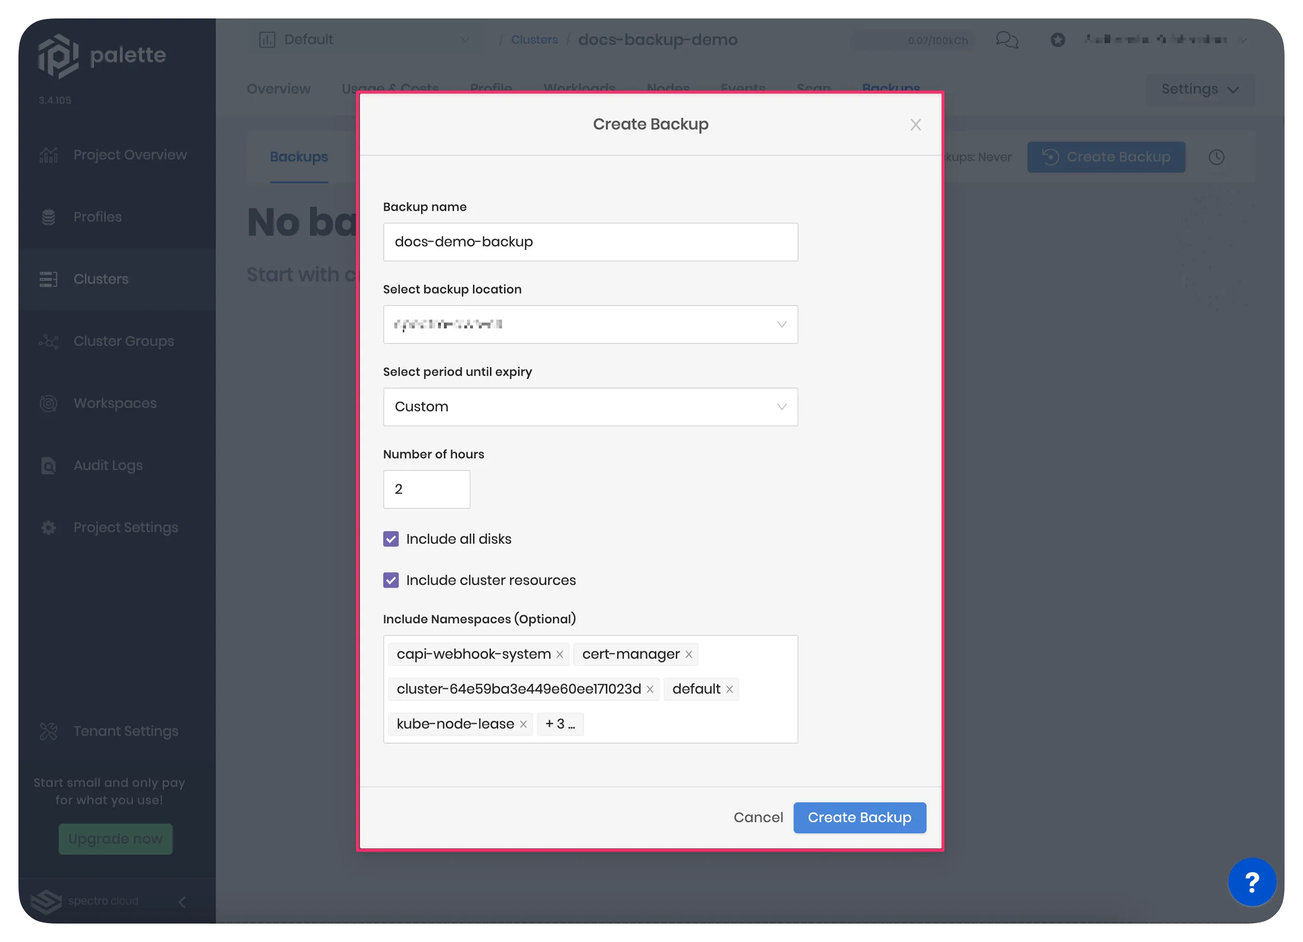
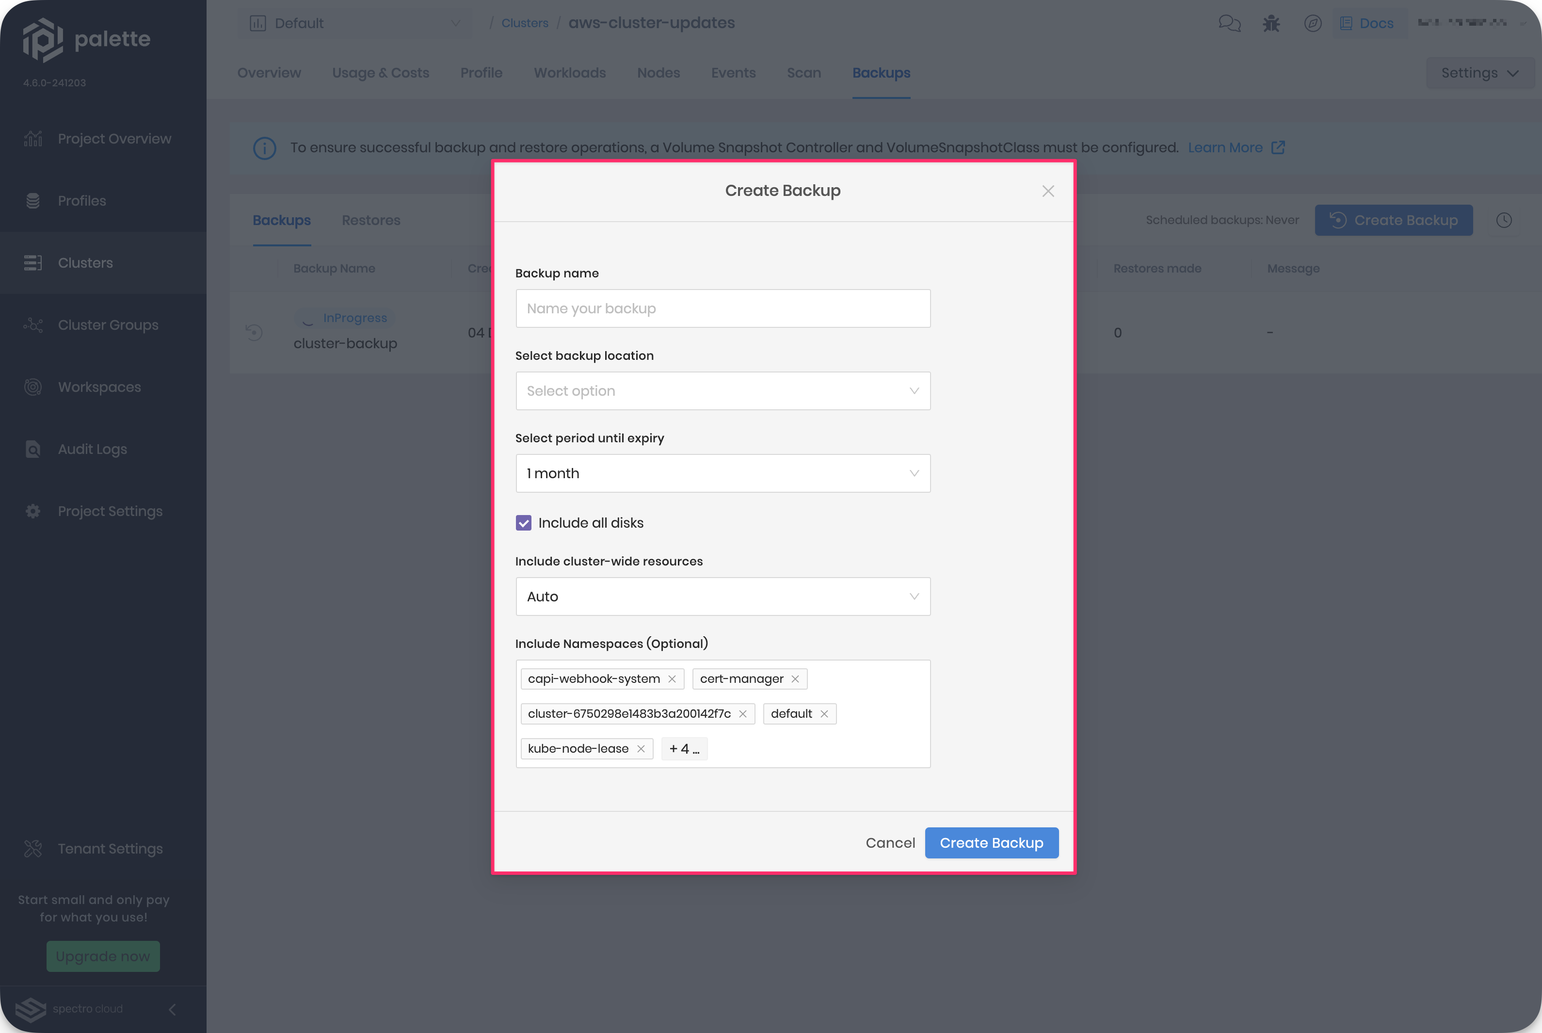
docs: add cluster-wide resources backup options PEM-5124

Changed region(s): [[0.0, 0.0, 1.0, 1.0], [0.5253, 0.7106, 0.5562, 0.7415], [0.0618, 0.3708, 0.0927, 0.4016]]

diff --git a/docs/docs-content/clusters/cluster-management/backup-restore/create-cluster-backup.md b/docs/docs-content/clusters/cluster-management/backup-restore/create-cluster-backup.md
@@ -15,34 +15,21 @@ the source cluster.
 
 :::info
 
-Palette uses open source Velero to provide backup and restore capabilities. You can learn more about Velero by checking
-out their [Restore Reference](https://velero.io/docs/main/restore-reference) and
-[Backup Reference](https://velero.io/docs/main/backup-reference).
+Palette uses Velero to provide backup and restore capabilities. Check out their
+[Restore Reference](https://velero.io/docs/main/restore-reference) and
+[Backup Reference](https://velero.io/docs/main/backup-reference) to learn more about the project.
 
 :::
 
-You can schedule a cluster backup or initiate a backup on demand. You can define a backup schedule in the cluster
-configuration for an existing cluster or while deploying a cluster.
+You can schedule a cluster backup or initiate a backup on demand. You can define a backup schedule during cluster
+creation or in the cluster settings of an existing cluster.
 
 Palette supports scheduling recurring backups, with the ability to customize the frequency and the time. You can also
-specify the backup expiry period, meaning the duration, after which Palette will delete the backup automatically. For
+specify the backup expiry period, meaning the duration after which Palette will delete the backup automatically. For
 example, you can schedule a backup for every week on Sunday at midnight and automatically expire the backup after three
 months. Additionally, you can initiate a backup on demand for an existing cluster.
 
-The following sections will describe the prerequisites and the detailed instructions to create a cluster backup. You can
-schedule a backup or initiate a backup on demand.
-
-- [Schedule a Backup](#schedule-a-backup)
-
-- [On-demand Backup](#on-demand-backup)
-
-<br />
-
-## Schedule a Backup
-
-Use the following instructions to schedule a backup for an existing cluster.
-
-### Prerequisites
+## Prerequisites
 
 - An available backup location in Palette. Refer to the
   [Add a Backup Location using Static Credentials](add-backup-location-static.md) or
@@ -54,155 +41,135 @@ Use the following instructions to schedule a backup for an existing cluster.
 - If you want to include volume snapshots in the backup, ensure that your CSI driver supports volume snapshots. For more
   information about volume support, review the CSI pack README for your CSI driver in use. Refer to the [Volume Snapshots](backup-restore.md#volume-snapshots) section for more information.
 
-### Instructions
+## Enablement
+
+<Tabs>
+
+<TabItem label="Schedule a Backup" value="schedule-backup">
 
 1. Log in to [Palette](https://console.spectrocloud.com/).
 
-2. Navigate to the left **Main Menu** and select **Clusters**.
+2. Navigate to the left **Main Menu**, and then select **Clusters**. The list of clusters appears.
 
-3. Select a cluster you want to back up. Ensure the cluster status is _Healthy_.
+3. Select a cluster you want to back up. The cluster **Overview** appears. Ensure the cluster status is _Healthy_.
 
-4. Click on the **Settings drop-down Menu** in the top right corner, and select **Cluster Settings**.
+4. Click on the **Settings Menu** in the top right corner, and select **Cluster Settings**. The **Settings** pane
+   appears.
 
-5. Next, on the **Settings Menu**, select the **Schedule Backups**. The screenshot below highlights the fields for
-   scheduling a backup.
-
-   <br />
+5. Select **Schedule Backups**. The backup configuration appears.
 
    ![A screenshot highlighting the fields for scheduling a backup for an existing cluster.](/clusters_cluster-management_backup-restore_scheduled-backup.webp)
 
-6. Fill out the required input fields to schedule a backup. Refer to the table to learn more about each input field.
+6. Fill out the required input fields to schedule a backup. Refer to the following table to learn more about each input
+   field.
 
-   | **Field**                         | **Description**                                                                                                                                                                                                 |
-   | --------------------------------- | --------------------------------------------------------------------------------------------------------------------------------------------------------------------------------------------------------------- |
-   | **Backup prefix**                 | Palette will generate a name automatically. Provide a prefix string you want to prepend to the auto-generated name.                                                                                             |
-   | **Select backup location**        | Choose a backup location. You must configure a location before creating a backup.                                                                                                                               |
-   | **Backup schedule**               | Create a backup schedule of your choice. You can review the scheduling options below the current table.                                                                                                         |
-   | **Select period until expiry**    | Select an expiry duration for the backups. Palette will delete the backup after the expiry duration.                                                                                                            |
-   | **Include all disks**             | Select this checkbox if you want to include all the disks in the backup.                                                                                                                                        |
-   | **Include cluster resources**     | Select the checkbox if you want Palette to back up the cluster-scoped and the namespace-scoped resources. However, if you do not select the checkbox, Palette will back up only the namespace-scoped resources. |
-   | **Include Namespaces** (Optional) | Palette will back up all namespaces by default. However, you can specify any namespaces you do not want backed up.                                                                                              |
+   | **Field**                          | **Description**                                                                                                                          |
+   | ---------------------------------- | ---------------------------------------------------------------------------------------------------------------------------------------- |
+   | **Backup prefix**                  | Palette will generate a name automatically. Provide a prefix string you want to prepend to the auto-generated name.                      |
+   | **Select backup location**         | Choose a backup location. You must configure a location before creating a backup.                                                        |
+   | **Backup schedule**                | Create a backup schedule of your choice. Palette provides several scheduling options, including a fully customized date.                 |
+   | **Select period until expiry**     | Select an expiry duration for the backups. Palette will delete the backup after the expiry duration.                                     |
+   | **Include all disks**              | Select this checkbox if you want to include all the disks in the backup.                                                                 |
+   | **Include cluster-wide resources** | Select one the options from the dropdown. The available options are **Auto**, **Always** and **Never**. **Auto** is selected by default. |
+   | **Include Namespaces** (Optional)  | Palette will back up all namespaces by default. However, you can specify any namespaces you do not want backed up.                       |
 
-   <br />
+   :::info
 
-:::info
+   In Kubernetes, there are two types of resources: cluster-scoped and namespace-scoped.
 
-    In Kubernetes, there are two types of resources: cluster-scoped and namespace-scoped.
+   Cluster-scoped resources, such as StorageClasses, ClusterRoles, and others, are visible and accessible to all users
+   in the cluster, regardless of the namespaces.
 
-    Cluster-scoped resources, such as StorageClasses, ClusterRoles, and others, are visible and accessible to all users in the cluster, regardless of the namespaces.
+   Namespace-scoped resources, like Pods, Deployments, Services, and others, belong to a specific namespace and can only
+   be accessed by users with the necessary permissions.
 
-    Namespace-scoped resources, like Pods, Deployments, Services, and others, belong to a specific namespace and can only be accessed by users with the necessary permissions.
+   :::
 
-:::
+   A cluster backup supports the following scheduling options:
 
-    <br />
+   - You can customize your backup to occur at a specific month, day, hour, and minute that suits your needs.
+   - Every week on Sunday at midnight
+   - Every two weeks at midnight
+   - Every month on the first at midnight
+   - Every two months on the first at midnight
+   - Never
 
-    A cluster backup supports the following scheduling options:
+   A cluster-wide backup operation of the source cluster can be configured using three options. The following table
+   summarizes the different options.
 
-    * You can customize your backup to occur at a specific month, day, hour, and minute that suits your needs.
-    * Every week on Sunday at midnight
-    * Every two weeks at midnight
-    * Every month on the first at midnight
-    * Every two months on the first at midnight
-    * Never
+   | **Backup Configuration** | **Description**                                                                                                                                                             |
+   | ------------------------ | --------------------------------------------------------------------------------------------------------------------------------------------------------------------------- |
+   | **Always**               | Include all cluster-wide resources regardless of any selected namespaces. This option is designed for restore operations to be performed exclusively on the source cluster. |
+   | **Auto**                 | Include persistent volumes that are linked to claims within the selected namespaces, but exclude cluster-wide resources. This is the default option for new backups.        |
+   | **Never**                | Excludes all cluster-wide resources, including persistent volumes.                                                                                                          |
 
-7. Click on the **Create Backup** button.
+7. Click on **Save Changes**. Depending on the size of the cluster, the backup process may take some time to complete.
+   You can view the status of the backup in the **Backups** tab.
 
-You now have successfully created a scheduled backup for the selected cluster. You can view the status of the backup in
-the **Backups** tab.
+</TabItem>
 
-### Validate
-
-Use the following steps to validate creating a backup in Palette.
-
-1. Log in to [Palette](https://console.spectrocloud.com/).
-
-2. Navigate to the left **Main Menu**, and select **Clusters**.
-
-3. Select the cluster from where you created the backup. Palette displays the details of the selected cluster.
-
-4. Navigate to the **Backups** tab and click on the **Backups** nested tab. Palette displays a list of all available
-   backups for the current cluster, including the newly created one. The screenshot below shows an example backup. This
-   step validates that you have successfully created the backup.
-
-![A screenshot highlighting the list of available backups for the specific cluster.](/clusters_cluster-management_backup-restore_view-backup.webp)
-
-5. You can click on the newly created backup from the list to view its details. Palette displays the backup name,
-   status, creation date, expiry date, list of backed-up namespaces, and a boolean field indicating whether the backup
-   includes all disks and cluster-scoped resources.
-
-## On-demand Backup
-
-Use the following instructions to create an on-demand backup for an existing cluster.
-
-### Prerequisites
-
-- An available backup location in Palette. Refer to the
-  [Add a Backup Location using Static Credentials](add-backup-location-static.md) or
-  [Add a Backup Location using Dynamic Credentials](add-backup-location-dynamic.md).
-
-### Instructions
-
-- An active cluster in Palette.
-
+<TabItem label="On-Demand backup" value="on-demand-backup">
 1. Log in to [Palette](https://console.spectrocloud.com).
 
 2. Navigate to the left **Main Menu** and select **Clusters**.
 
 3. Select a cluster you want to back up. Ensure the cluster status is _Healthy_.
 
-4. Navigate to the **Backups** tab and click on the **Create Backup** button. The screenshot below shows the popup
-   window Palette opens to initiate an on-demand backup. <br /><br />
-
-   <br />
+4. Navigate to the **Backups** tab and click on the **Create Backup** button. The **Create Backup** window appears.
 
    ![A screenshot highlighting the fields for an on-demand backup for an existing cluster.](/clusters_cluster-management_backup-restore_ondemand-backup.webp)
 
 5. Use the following information to configure a scheduled backup.
 
-   | **Field**                         | **Description**                                                                                                                                                                                                                                                                                                                                                |
-   | --------------------------------- | -------------------------------------------------------------------------------------------------------------------------------------------------------------------------------------------------------------------------------------------------------------------------------------------------------------------------------------------------------------- |
-   | **Backup name**                   | Provide a name for the backup.                                                                                                                                                                                                                                                                                                                                 |
-   | **Select backup location**        | Choose a backup location. You must configure a backup location before creating a backup. Refer to the [Add a Backup Location using Static Credentials](add-backup-location-static.md) or [Add a Backup Location using Dynamic Credentials](add-backup-location-dynamic.md) guides to learn about adding a backup location using static or dynamic credentials. |
-   | **Select period until expiry**    | Select an expiry duration for the backup. The backup will be automatically removed after the expiry duration.                                                                                                                                                                                                                                                  |
-   | **Include all disks**             | Select this checkbox if you want to include PVs and volume snapshots in the backup.                                                                                                                                                                                                                                                                            |
-   | **Include cluster resources**     | Select the checkbox if you want to include cluster-scoped resources in the backup. If you do not select the checkbox, Palette will back up only the namespace-scoped resources.                                                                                                                                                                                |
-   | **Include Namespaces** (Optional) | Palette will back up all namespaces by default. However, you can specify namespaces you do not want backed up.                                                                                                                                                                                                                                                 |
+   | **Field**                          | **Description**                                                                                                                                                                                                                                                                                                                                                |
+   | ---------------------------------- | -------------------------------------------------------------------------------------------------------------------------------------------------------------------------------------------------------------------------------------------------------------------------------------------------------------------------------------------------------------- |
+   | **Backup name**                    | Provide a name for the backup.                                                                                                                                                                                                                                                                                                                                 |
+   | **Select backup location**         | Choose a backup location. You must configure a backup location before creating a backup. Refer to the [Add a Backup Location using Static Credentials](add-backup-location-static.md) or [Add a Backup Location using Dynamic Credentials](add-backup-location-dynamic.md) guides to learn about adding a backup location using static or dynamic credentials. |
+   | **Select period until expiry**     | Select an expiry duration for the backup. The backup will be automatically removed after the expiry duration.                                                                                                                                                                                                                                                  |
+   | **Include all disks**              | Select this checkbox if you want to include PVs and volume snapshots in the backup.                                                                                                                                                                                                                                                                            |
+   | **Include cluster-wide resources** | Select one the options from the dropdown. The available options are **Auto**, **Always** and **Never**. **Auto** is selected by default.                                                                                                                                                                                                                       |
+   | **Include Namespaces** (Optional)  | Palette will back up all namespaces by default. However, you can specify namespaces you do not want backed up.                                                                                                                                                                                                                                                 |
 
-   <br />
+   :::info
 
-:::info
+   In Kubernetes, there are two types of resources: cluster-scoped and namespace-scoped.
 
-    In Kubernetes, there are two types of resources: cluster-scoped and namespace-scoped.
+   Cluster-scoped resources, such as StorageClasses, ClusterRoles, and others, are visible and accessible to all users
+   in the cluster, regardless of the namespaces.
 
-    Cluster-scoped resources, such as StorageClasses, ClusterRoles, and others, are visible and accessible to all users in the cluster, regardless of the namespaces.
+   Namespace-scoped resources, like Pods, Deployments, Services, and others, belong to a specific namespace and can only
+   be accessed by users with the necessary permissions.
 
-    Namespace-scoped resources, like Pods, Deployments, Services, and others, belong to a specific namespace and can only be accessed by users with the necessary permissions.
+   :::
 
-:::
+   A cluster-wide backup operation of the source cluster can be configured using three options. The following table
+   summarizes the different options.
 
-    <br />
+   | **Backup Configuration** | **Description**                                                                                                                                                             |
+   | ------------------------ | --------------------------------------------------------------------------------------------------------------------------------------------------------------------------- |
+   | **Always**               | Include all cluster-wide resources regardless of any selected namespaces. This option is designed for restore operations to be performed exclusively on the source cluster. |
+   | **Auto**                 | Include persistent volumes that are linked to claims within the selected namespaces, but exclude cluster-wide resources. This is the default option for new backups.        |
+   | **Never**                | Excludes all cluster-wide resources, including persistent volumes.                                                                                                          |
 
-6. Click on the **Create Backup** button.
+6. Click on the **Create Backup** button. Depending on the size of the cluster, the backup process may take some time to
+   complete. You can view the status of the backup in the **Backups** tab.
 
-You now have successfully created a backup for the selected cluster. Depending on the size of the cluster, the backup
-process may take some time to complete. You can view the status of the backup in the **Backups** tab.
+</TabItem>
 
-### Validate
+</Tabs>
 
-Use the following steps to validate creating a backup in Palette. <br />
+## Validate
 
 1. Log in to [Palette](https://console.spectrocloud.com/).
 
-2. Navigate to the left **Main Menu**, and select **Clusters**.
+2. Navigate to the left **Main Menu**, and then select **Clusters**.
 
-3. Select the cluster from where you created the backup. Palette displays the details of the selected cluster.
+3. Select the cluster that you configured a backup for. The cluster **Overview** appears.
 
 4. Navigate to the **Backups** tab and click on the **Backups** nested tab. Palette displays a list of all available
-   backups for the current cluster, including the newly created one. The screenshot below shows an example backup. This
-   step validates that you have successfully created the backup.
+   backups for the current cluster, including the newly created one.
 
-![A screenshot highlighting the list of available backups for the specific cluster.](/clusters_cluster-management_backup-restore_view-backup.webp)
+   ![A screenshot highlighting the list of available backups for the specific cluster.](/clusters_cluster-management_backup-restore_view-backup.webp)
 
 5. You can click on the newly created backup from the list to view its details. Palette displays the backup name,
    status, creation date, expiry date, list of backed-up namespaces, and a boolean field indicating whether the backup

diff --git a/docs/docs-content/clusters/cluster-management/backup-restore/backup-restore.md b/docs/docs-content/clusters/cluster-management/backup-restore/backup-restore.md
@@ -94,6 +94,17 @@ or
 [Add a Backup Location using Dynamic Credentials](/clusters/cluster-management/backup-restore/add-backup-location-dynamic)
 guide.
 
+### Backup Cluster Resources
+
+Palette backups are safe to restore to any cluster and include persistent data. A cluster-wide backup operation of the
+source cluster can be configured using three options. The following table summarizes the different options.
+
+| **Backup Configuration** | **Description**                                                                                                                                                             |
+| ------------------------ | --------------------------------------------------------------------------------------------------------------------------------------------------------------------------- |
+| **Always**               | Include all cluster-wide resources regardless of any selected namespaces. This option is designed for restore operations to be performed exclusively on the source cluster. |
+| **Auto**                 | Include persistent volumes that are linked to claims within the selected namespaces, but exclude cluster-wide resources. This is the default option for new backups.        |
+| **Never**                | Excludes all cluster-wide resources, including persistent volumes.                                                                                                          |
+
 ## Volume Snapshots
 
 <!-- prettier-ignore -->
